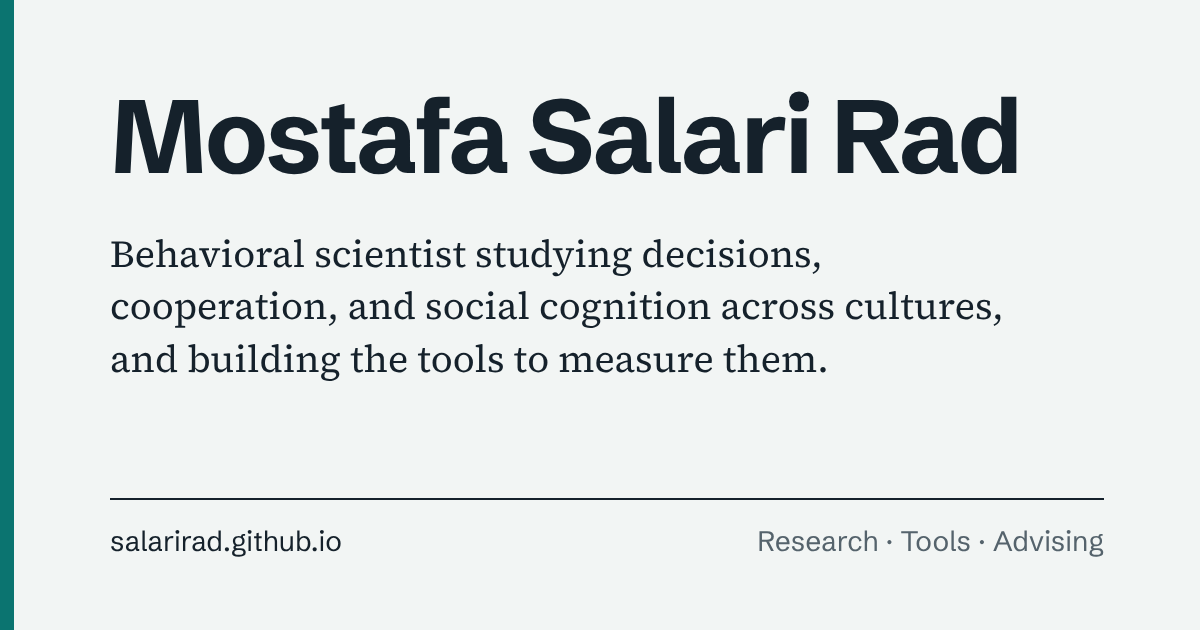
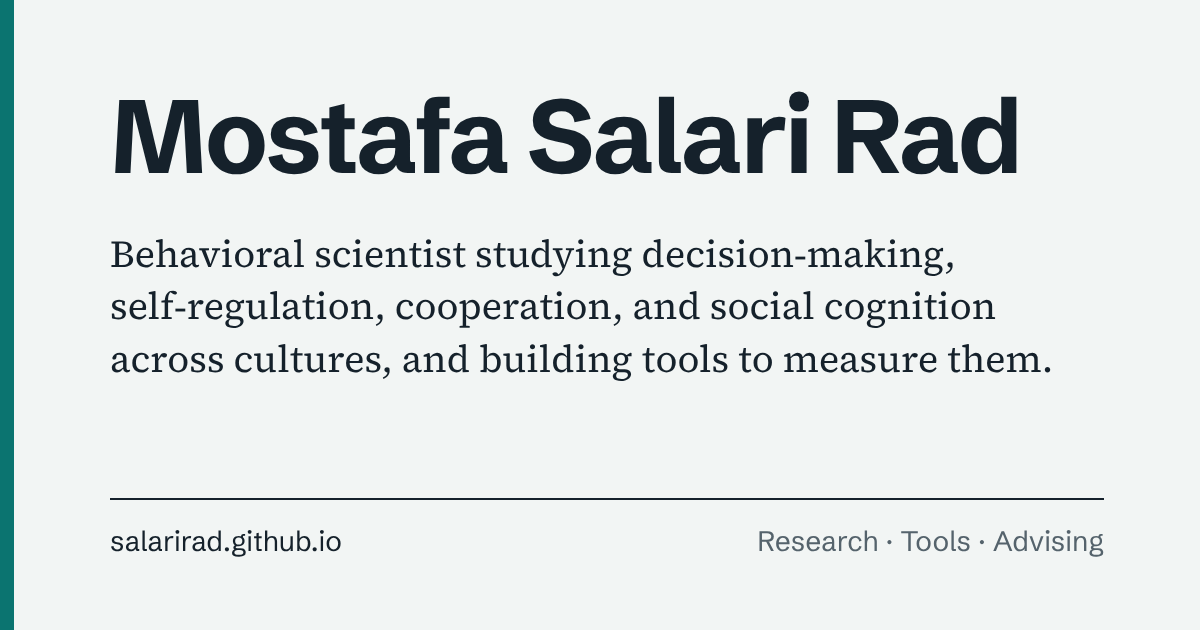
Preview card: lead with decision-making and self-regulation
Claude-Session: https://claude.ai/code/session_01X2ntKMcHkMpgRMnC4dzgPm

Changed region(s): [[0.0925, 0.3921, 0.8325, 0.5127], [0.0925, 0.5429, 0.8633, 0.6032]]

diff --git a/advising.html b/advising.html
@@ -17,7 +17,7 @@
 <meta property="og:image" content="https://salarirad.github.io/images/og.png">
 <meta property="og:image:width" content="1200">
 <meta property="og:image:height" content="630">
-<meta property="og:image:alt" content="Mostafa Salari Rad: behavioral scientist studying decisions, cooperation, and social cognition across cultures.">
+<meta property="og:image:alt" content="Mostafa Salari Rad: behavioral scientist studying decision-making, self-regulation, cooperation, and social cognition across cultures.">
 <meta name="twitter:card" content="summary_large_image">
 <link rel="preconnect" href="https://fonts.googleapis.com">
 <link rel="preconnect" href="https://fonts.gstatic.com" crossorigin>

diff --git a/index.html b/index.html
@@ -17,7 +17,7 @@
 <meta property="og:image" content="https://salarirad.github.io/images/og.png">
 <meta property="og:image:width" content="1200">
 <meta property="og:image:height" content="630">
-<meta property="og:image:alt" content="Mostafa Salari Rad: behavioral scientist studying decisions, cooperation, and social cognition across cultures.">
+<meta property="og:image:alt" content="Mostafa Salari Rad: behavioral scientist studying decision-making, self-regulation, cooperation, and social cognition across cultures.">
 <meta name="twitter:card" content="summary_large_image">
 <link rel="preconnect" href="https://fonts.googleapis.com">
 <link rel="preconnect" href="https://fonts.gstatic.com" crossorigin>

diff --git a/research.html b/research.html
@@ -17,7 +17,7 @@
 <meta property="og:image" content="https://salarirad.github.io/images/og.png">
 <meta property="og:image:width" content="1200">
 <meta property="og:image:height" content="630">
-<meta property="og:image:alt" content="Mostafa Salari Rad: behavioral scientist studying decisions, cooperation, and social cognition across cultures.">
+<meta property="og:image:alt" content="Mostafa Salari Rad: behavioral scientist studying decision-making, self-regulation, cooperation, and social cognition across cultures.">
 <meta name="twitter:card" content="summary_large_image">
 <link rel="preconnect" href="https://fonts.googleapis.com">
 <link rel="preconnect" href="https://fonts.gstatic.com" crossorigin>

diff --git a/tools.html b/tools.html
@@ -17,7 +17,7 @@
 <meta property="og:image" content="https://salarirad.github.io/images/og.png">
 <meta property="og:image:width" content="1200">
 <meta property="og:image:height" content="630">
-<meta property="og:image:alt" content="Mostafa Salari Rad: behavioral scientist studying decisions, cooperation, and social cognition across cultures.">
+<meta property="og:image:alt" content="Mostafa Salari Rad: behavioral scientist studying decision-making, self-regulation, cooperation, and social cognition across cultures.">
 <meta name="twitter:card" content="summary_large_image">
 <link rel="preconnect" href="https://fonts.googleapis.com">
 <link rel="preconnect" href="https://fonts.gstatic.com" crossorigin>
